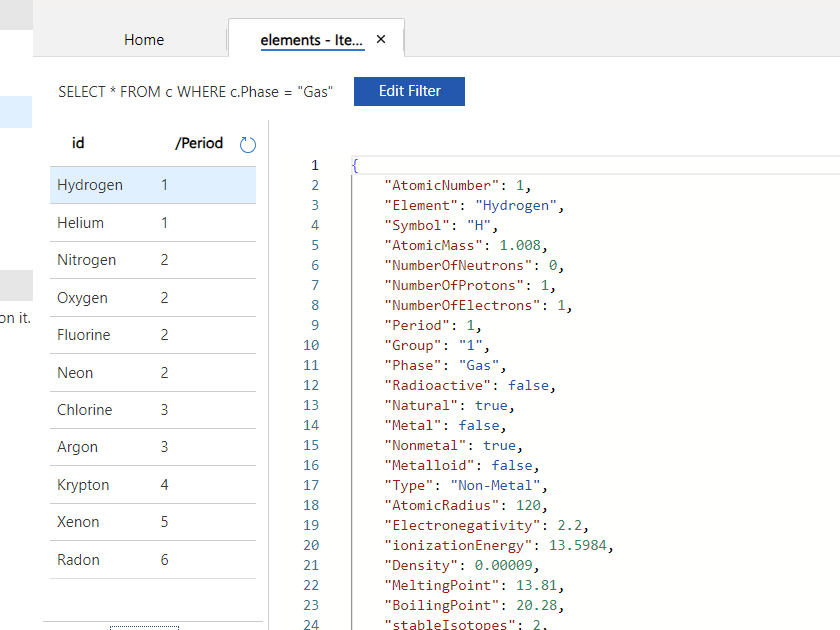
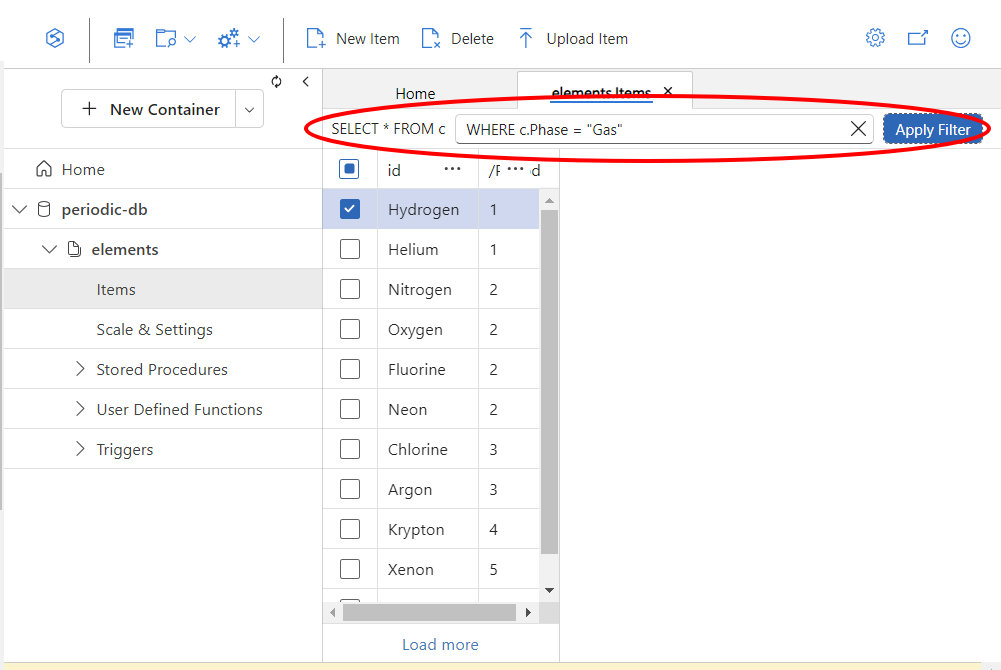
Nosql updates

diff --git a/content/nosql/_index.md b/content/nosql/_index.md
@@ -107,7 +107,7 @@ A configuration menu will slide in from the right. Enter the following options:
 
     The partition key refers to a piece of data in each of our database entries that will arrange them into groups. The idea is to choose a key such that, in an average day reading from our database, no group will be accessed much more than any other group. Here we're choosing an chemical element's _period_ (row number in the periodic table) as the partition key. It's not necessarily the _best_ partition key, but for our project it's good enough.
 
-  - **Container Max RU/s**: Enter `1000`. This number is an estimate of how much data will be read and written from our database in a given second. The units here are called "RU"s ("request units"). Reading one entry from the database equates roughly to 1 RU, while writing one entry equates to 5 RUs. This value **directly influences how much our database will cost** (higher max RU/s, higher cost), so for a low-performance database we'll choose a low number.
+  - **Container Max RU/s**: Enter `1000`. This number is an estimate of how much data will be read and written from our database in a given second. The units here are called "RU"s ("request units"). Reading one entry from the database equates roughly to 1 RU, while writing one entry equates to 5 RUs. This value **directly influences how much our database will cost** (higher max RU/s, higher cost).
   
 ![](./img/az-cosmos-container-options.png)
 
@@ -138,6 +138,10 @@ Then enter it with the command:
 ```bash
 cd db-populate
 ```
+
+Next, we'll create a "virtual environment" ("venv") in this directory, inside of which we can install the various
+
+
 ## Getting the data
 
 Now let's download the [periodic table data](https://gist.github.com/speters33w/e5b1246d6859f29c4f02a299714d4c20) using the `wget` command, which is a terminal command that downloads files the same way your web browser might. The general form of this command is:
@@ -166,35 +170,43 @@ Let's load it into our database!
 
 ## Installing Python requirements
 
+First, let's create a Python virtual environment ("venv") inside of which we'll install the various Python libraries we'll be using.
+
+Start by running this command to create it:
+
+```bash
+python3 -m venv populate-env
+```
+
+And then run this command to enter it:
+```bash
+source populate-env/bin/activate
+```
+You should see the environment name appear before the regular stuff in the terminal prompt:
+
+![](./img/az-venv.png)
+
+In general, you'll only need to create the environment once, but you might need to "activate" it every time you open a new terminal. If you're not sure, look for that `(populate-env)` text before the rest of the command prompt. If you don't see it, run that `activate` command above.
+
 Next, create a new file named `requirements.txt`. Do this by right-clicking the `db-populate` folder in the explorer bar on the left, and selecting `New File...`. Name the file `requirements.txt`:
 
 ![](./img/vm-new-file.png)
 
-
 (if the explorer bar isn't visible, try running the terminal command `code ~`)
-
 
 In the new file's text area, paste in this text and save:
 
 ```python
-pandas==2.0.3
-python-dotenv==1.0.1
-azure-core==1.26.4
-azure-cosmos==4.3.1
+pandas
+python-dotenv
+azure-core
+azure-cosmos
 ```
 
 Each line reports a different Python library that needs to be installed for our code to run:
 - **[pandas](https://pypi.org/project/pandas/)** is used to open and process CSV files
 - **[python-dotenv](https://pypi.org/project/python-dotenv/)** is used to load "secret" data like usernames and passwords that we don't want to put directly into our code
 - **[azure-core](https://pypi.org/project/azure-core/)** and **[azure-cosmos](https://pypi.org/project/azure-cosmos/)** are used to interact with the Azure cloud and our Cosmos DB, respectively.
-
-Now, back in the terminal, install pip and venvwith the following line:
-
-```bash
-sudo apt install -y python3-pip python3-venv
-```
-
-`Pip` is a tool used to install Python libraries, while `venv` is a tool to help install multiple versions of a python library at one time.
 
 Finally, use pip to install the libraries listed by `requirements.txt` using the following command line:
 
@@ -229,7 +241,7 @@ dotenv.load_dotenv()
 def fail_error(msg):
     """Print a nice red error to the screen and then exit the script"""
     sys.stderr.write("\033[1;31m{:}\n".format(msg))
-    sys.exit(2)  
+    sys.exit(2)
 
 # Crash the script intentionally if the .env file doesn't contain a
 # database URL and key:
@@ -328,7 +340,7 @@ From here, if we open the `periodic-db` entry under the NOSQL API list, and then
 Yay! 👩🔬⚗👨🔬🧪🧑🔬⚛
 
 # 4. Querying the database
-Click the blue `Edit Filter` button and try entering a filter expression into the box, like:
+In the text box next to `SELECT * FROM c`, try entering a filter expression into the box like:
 
 ```sql
 WHERE c.Phase = "Gas"

diff --git a/content/workstation/_index.md b/content/workstation/_index.md
@@ -235,7 +235,15 @@ sudo apt update
 
 ![](./img/vscode-rc-term-2.png)
 
-Now we're going to install a very important tool called `nyancat`. To do so, run the following command:
+Next, we'll install pip and venv with the following line:
+
+```bash
+sudo apt install -y python3-pip python3-venv
+```
+
+`Pip` is a tool used to install Python libraries, while `venv` is a tool to help install multiple versions of a python library at one time. We'll be using these tools in future tutorials.
+
+And finally, we're going to install a very important tool called `nyancat`. To do so, run the following command:
 
 ```bash
 sudo apt-get install -y nyancat
